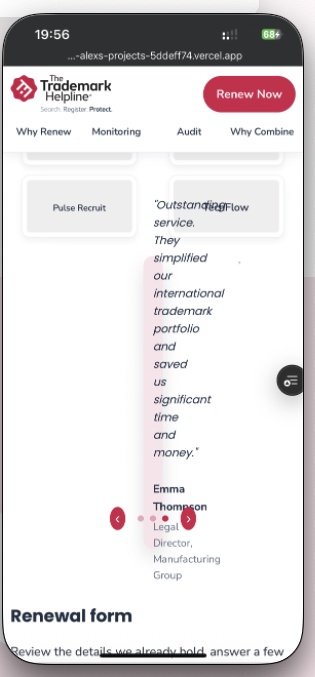
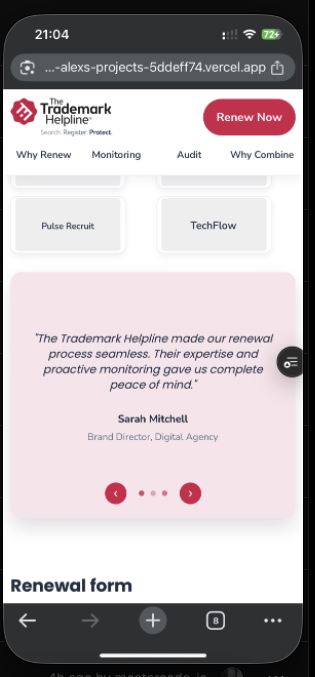
incremental

diff --git a/public/renewal-landing/styles.css b/public/renewal-landing/styles.css
@@ -421,8 +421,8 @@ input[type="checkbox"]:focus {
   .logo-grid { grid-template-columns: repeat(2, minmax(0, 1fr)); gap: 0.6rem; justify-items: stretch; }
   .client-logo { width: 100%; max-width: 150px; padding: 0.35rem; }
   .client-logo svg { width: 100%; height: auto; }
-  .testimonial-carousel { padding: 1.05rem 0.7rem 3.2rem; min-height: 320px; }
-  .testimonial-card { left: 1.1rem; right: 1.1rem; bottom: 3.2rem; }
+  .testimonial-carousel { padding: 1.05rem 0.7rem 3.2rem; min-height: 320px; max-width: 280px; margin: 0 auto; }
+  .testimonial-card { left: 0.8rem; right: 0.8rem; bottom: 3.2rem; }
   .testimonial-quote { font-size: 0.9rem; line-height: 1.45; }
   .testimonial-author strong { font-size: 0.85rem; }
   .testimonial-author span { font-size: 0.78rem; }
